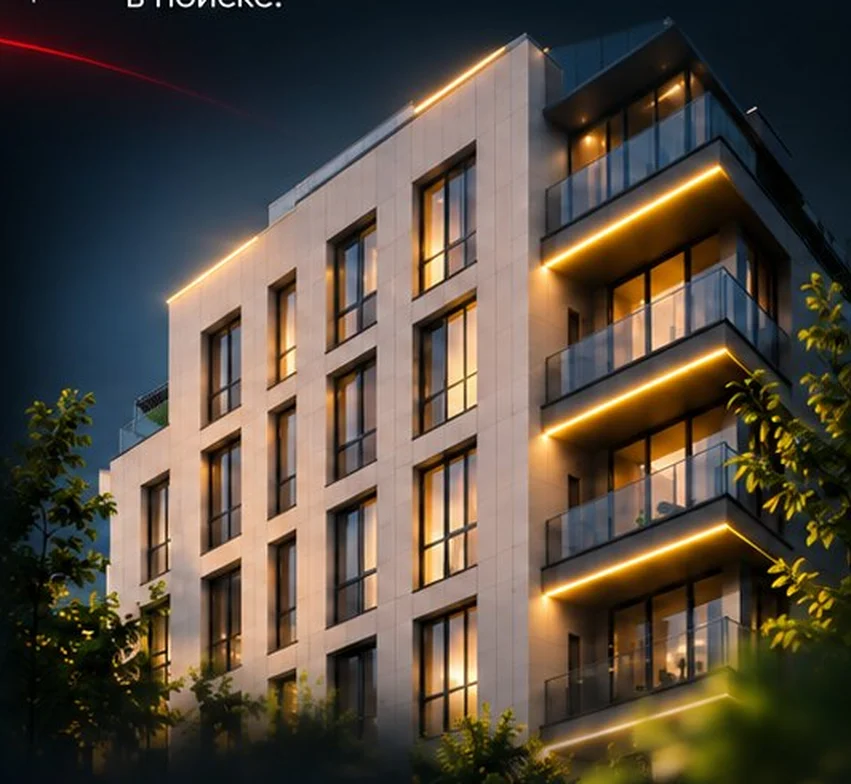
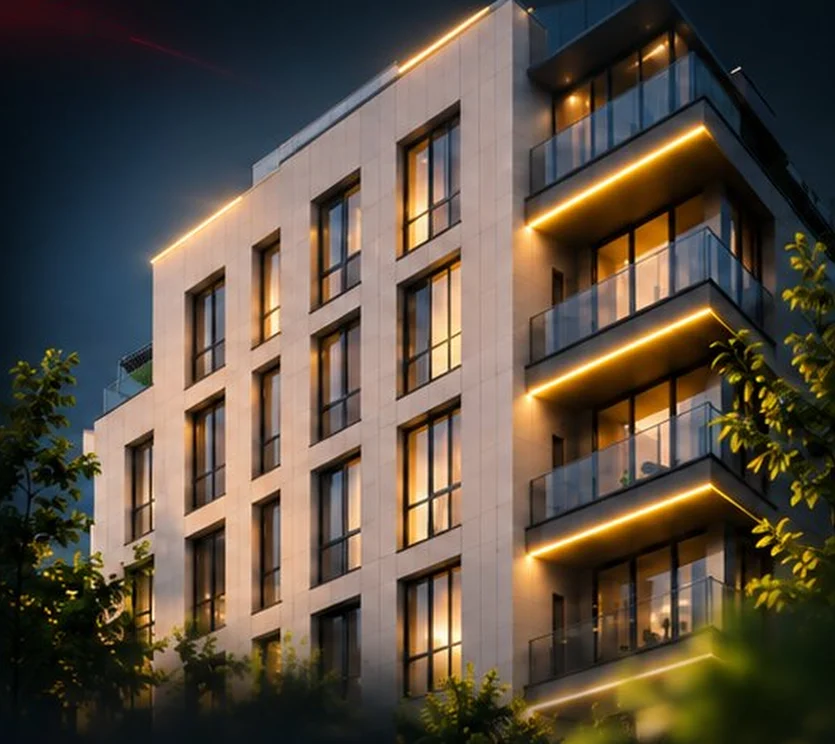
Фото без красных полос, непрозрачная книга, логотип в шапке, фикс таблиц кейсов на мобильном
Claude-Session: https://claude.ai/code/session_01BKoBKaUowQ6bf6eYqQuEWF

diff --git a/index.html b/index.html
@@ -26,9 +26,8 @@ img{display:block;max-width:none}
 .hdr{position:fixed;inset:0 0 auto;z-index:50;display:flex;align-items:center;gap:24px;padding:22px 4vw;transition:background .4s,padding .4s}
 .hdr.solid{background:rgba(7,11,16,.72);backdrop-filter:blur(14px);padding-block:14px}
 .logo{display:flex;align-items:center;gap:14px;line-height:1.15}
-.logo svg{width:64px;height:44px;flex:none}
-.logo b{display:block;font-weight:800;font-size:20px;letter-spacing:.01em}
-.logo span{font-size:15px;color:#d6dae0}
+.hdr .f-logo{font-size:clamp(17px,1.35vw,22px);gap:12px;line-height:1}
+.hdr .f-logo i{margin-left:4px;width:4px}
 .nav{margin-left:auto;display:flex;gap:clamp(18px,2.4vw,40px);font-size:16px;font-weight:500}
 .nav a{position:relative;padding:6px 0}
 .nav a::after{content:"";position:absolute;left:0;right:0;bottom:0;height:2px;background:var(--red);transform:scaleX(0);transform-origin:left;transition:transform .35s var(--ease)}
@@ -42,7 +41,7 @@ img{display:block;max-width:none}
 .btn::before{content:"";position:absolute;inset:0;background:linear-gradient(110deg,transparent 30%,rgba(255,255,255,.35) 50%,transparent 70%);transform:translateX(-120%);transition:transform .8s}
 .btn:hover::before{transform:translateX(120%)}
 .play{white-space:nowrap;display:inline-flex;align-items:center;gap:14px;font-size:17px;font-weight:500}
-.play i{width:52px;height:52px;border-radius:50%;border:1.5px solid rgba(255,255,255,.7);display:grid;place-items:center;transition:background .3s,transform .3s var(--ease)}
+.play i{flex:none;width:52px;height:52px;border-radius:50%;border:1.5px solid rgba(255,255,255,.7);display:grid;place-items:center;transition:background .3s,transform .3s var(--ease)}
 .play i svg{width:16px;height:16px;margin-left:3px}
 .play:hover i{background:var(--red);border-color:var(--red);transform:scale(1.08)}
 .burger{display:none;margin-left:auto;width:48px;height:48px;border-radius:50%;border:1.5px solid rgba(255,255,255,.5);background:none;position:relative}
@@ -74,6 +73,7 @@ img{display:block;max-width:none}
 .gw i{display:inline-block;font-style:normal;background:linear-gradient(180deg,#fff 55%,#cfd4da);-webkit-background-clip:text;background-clip:text;color:transparent;opacity:0;transform:translateY(30%);transition:opacity .9s var(--ease),transform 1.1s var(--ease);transition-delay:calc(var(--i)*70ms + .1s)}
 .in .gw i{opacity:1;transform:none}
 .photo{position:absolute;z-index:3;transform:translateX(-50%)}
+.photo.fade img{-webkit-mask-image:linear-gradient(#000 78%,rgba(0,0,0,.25));mask-image:linear-gradient(#000 78%,rgba(0,0,0,.25))}
 .photo img{width:100%;height:100%;object-fit:contain;object-position:50% 100%;opacity:0;transform:translate3d(calc(var(--mx,0)*10px),40px,0) scale(1.04);transition:opacity 1.2s var(--ease) .25s,transform 1.4s var(--ease) .25s;filter:drop-shadow(0 30px 60px rgba(0,0,0,.5))}
 .in .photo img{opacity:1;transform:translate3d(calc(var(--mx,0)*10px),calc(var(--my,0)*6px),0)}
 .orbit{position:absolute;inset:0;width:100%;height:100%;pointer-events:none;overflow:visible}
@@ -213,7 +213,7 @@ h1,h2,h3{margin:0;font-weight:700;line-height:1.08;text-wrap:balance}
 .f-top{margin-top:auto;display:grid;grid-template-columns:minmax(0,1.15fr) minmax(0,1.2fr) minmax(0,.85fr);gap:0;align-items:center;padding-bottom:clamp(40px,7vh,80px)}
 .f-brand{padding-right:3vw;border-right:1px solid var(--line)}
 .f-logo{display:flex;align-items:center;gap:20px;font-weight:600;font-size:clamp(26px,2.2vw,40px);line-height:1}
-.f-logo i{margin-left:8px;width:6px;height:2.1em;background:var(--red);transform:skewX(-22deg);border-radius:1px}
+.f-logo i{flex:none;margin-left:8px;width:6px;height:2.1em;background:var(--red);transform:skewX(-22deg);border-radius:1px}
 .f-brand p{color:#a9adb5;font-size:clamp(18px,1.5vw,24px);line-height:1.35;margin:28px 0 30px;max-width:340px}
 .f-btns{display:flex;gap:18px;flex-wrap:wrap}
 .f-btns .btn{height:56px}.ic{width:22px;height:22px;flex:none}
@@ -256,11 +256,12 @@ h1,h2,h3{margin:0;font-weight:700;line-height:1.08;text-wrap:balance}
   .nav,.hdr>.btn,.pager,.h-serv,.vscale,.mouse,.h-meta{display:none}
   .burger{display:block}
   .hdr{padding:14px 5vw}
-  .logo svg{width:50px;height:36px}.logo b{font-size:16px}.logo span{font-size:13px}
+  .hdr .f-logo{font-size:17px}
   .h-lead{left:5vw;right:5vw;bottom:calc(9vh + 64px);max-width:none}
   .h-lead h1{font-size:clamp(22px,6.4vw,30px)}
   .h-cta{left:5vw;right:5vw;bottom:4vh;gap:18px}
-  .h-cta .btn{height:50px;padding:0 22px}
+  .h-cta .btn{height:50px;padding:0 20px;font-size:15px}
+  .h-cta{gap:14px}.h-cta .play{font-size:15px;gap:10px}.h-cta .play i{width:46px;height:46px}
   #hero::after{content:"";position:absolute;inset:auto 0 0;height:45%;z-index:4;background:linear-gradient(180deg,transparent,rgba(5,8,12,.92) 70%)}
   .flow{display:flex;flex-direction:column;padding:84px 5vw 0}
   .flow .ui,.flow .side{position:static;max-width:none}
@@ -289,7 +290,8 @@ h1,h2,h3{margin:0;font-weight:700;line-height:1.08;text-wrap:balance}
   .dots i{width:8px;height:8px;border-radius:9px;background:rgba(255,255,255,.3);transition:.3s}
   .dots i.on{width:24px;background:var(--red)}
   .slide{height:100%;overflow-y:auto;overscroll-behavior:contain;scrollbar-width:none;display:flex;flex-direction:column;padding:84px 5vw 96px;gap:16px}
-  .slide>*{flex:none}
+  .slide>*,.slide .s-head,.slide .lead,.slide .s-img,.slide .chart,.slide .trust,.slide .tbl,.slide .about{flex:none}
+  .tbl .q{min-width:300px}
   .foot{height:100svh;overflow-y:auto;scrollbar-width:none;padding:84px 5vw 0;display:flex;flex-direction:column}
   .f-glow{left:10%;width:95%;height:22%;top:6%}
   .f-top{margin-top:0}
@@ -319,7 +321,6 @@ h1,h2,h3{margin:0;font-weight:700;line-height:1.08;text-wrap:balance}
 /* ноутбуки 13–15" и невысокие окна */
 @media(min-width:901px) and (max-height:860px){
  .hdr{padding-block:16px}.hdr.solid{padding-block:10px}
- .logo svg{width:56px;height:38px}.logo b{font-size:18px}.logo span{font-size:14px}
  .btn{height:46px;padding:0 24px;font-size:15px}.play i{width:46px;height:46px}.play{font-size:16px}
  .side{top:max(12vh,84px)}.side h2{font-size:min(3.4vw,6.6vh);margin:2.6vh 0 2vh}.side p{font-size:min(1.12vw,2.35vh);margin-bottom:2.6vh}
  .book-btns{margin-top:3.4vh}
@@ -342,7 +343,7 @@ h1,h2,h3{margin:0;font-weight:700;line-height:1.08;text-wrap:balance}
 }
 /* большие мониторы */
 @media(min-width:1800px){
- .nav{font-size:18px}.logo b{font-size:22px}.btn{height:58px;font-size:18px;padding:0 32px}
+ .nav{font-size:18px}.btn{height:58px;font-size:18px;padding:0 32px}
  .side{max-width:min(27vw,560px)}.side p{font-size:min(1.12vw,2.3vh)}
  .p-in,.slide{padding-left:5vw;padding-right:5vw}
  .feat{font-size:min(.9vw,1.7vh)}.card .sub{font-size:min(1vw,2vh)}
@@ -366,10 +367,7 @@ h1,h2,h3{margin:0;font-weight:700;line-height:1.08;text-wrap:balance}
 </defs></svg>
 
 <header class="hdr" id="hdr">
-  <a class="logo" href="#hero" aria-label="Fridman Marketing — наверх">
-    <svg viewBox="0 0 64 44"><path d="M12 2h50l-10 40H2z" fill="#ff1f2d"/><path d="M22 34l5-22h17l-1 5H32l-1 4h10l-1 5H30l-2 8z" fill="#fff"/><circle cx="57" cy="38" r="3.4" fill="#ff1f2d"/></svg>
-    <div><b>FRIDMAN MARKETING</b><span>Independent digital team</span></div>
-  </a>
+  <a class="logo f-logo" href="#hero" aria-label="Fridman Marketing — наверх"><i></i><span>FRIDMAN<br>MARKETING</span></a>
   <nav class="nav" id="nav">
     <a href="#team">О нас</a><a href="#book">Книга</a><a href="#pricing">Тарифы</a><a href="#cases">Кейсы</a><a href="#contacts">Контакты</a>
   </nav>
@@ -391,7 +389,7 @@ h1,h2,h3{margin:0;font-weight:700;line-height:1.08;text-wrap:balance}
   <div class="bgfx"></div>
   <div class="stage">
     <div class="giant" data-box="12.3,17.5,77,50" data-mbox="5,13,90,20"><span class="gw">Fridman</span></div>
-    <div class="photo" style="left:50.8%;bottom:0;height:91.5%;aspect-ratio:2120/1722" data-m="left:52%;height:72%"><img src="img/hero.webp" alt="Марк Фридман, основатель Fridman Marketing"></div>
+    <div class="photo fade" style="left:50.8%;bottom:0;height:91.5%;aspect-ratio:2120/1722" data-m="left:52%;height:72%"><img src="img/hero.webp" alt="Марк Фридман, основатель Fridman Marketing"></div>
   </div>
   <div class="ui h-meta" data-r style="--d:.9">2026 ©<hr>Krasnodar,<br>Worldwide</div>
   <div class="ui h-lead"><h1 data-r style="--d:.7">Независимая digital-команда для роста трафика, заявок и бренда.</h1></div>
